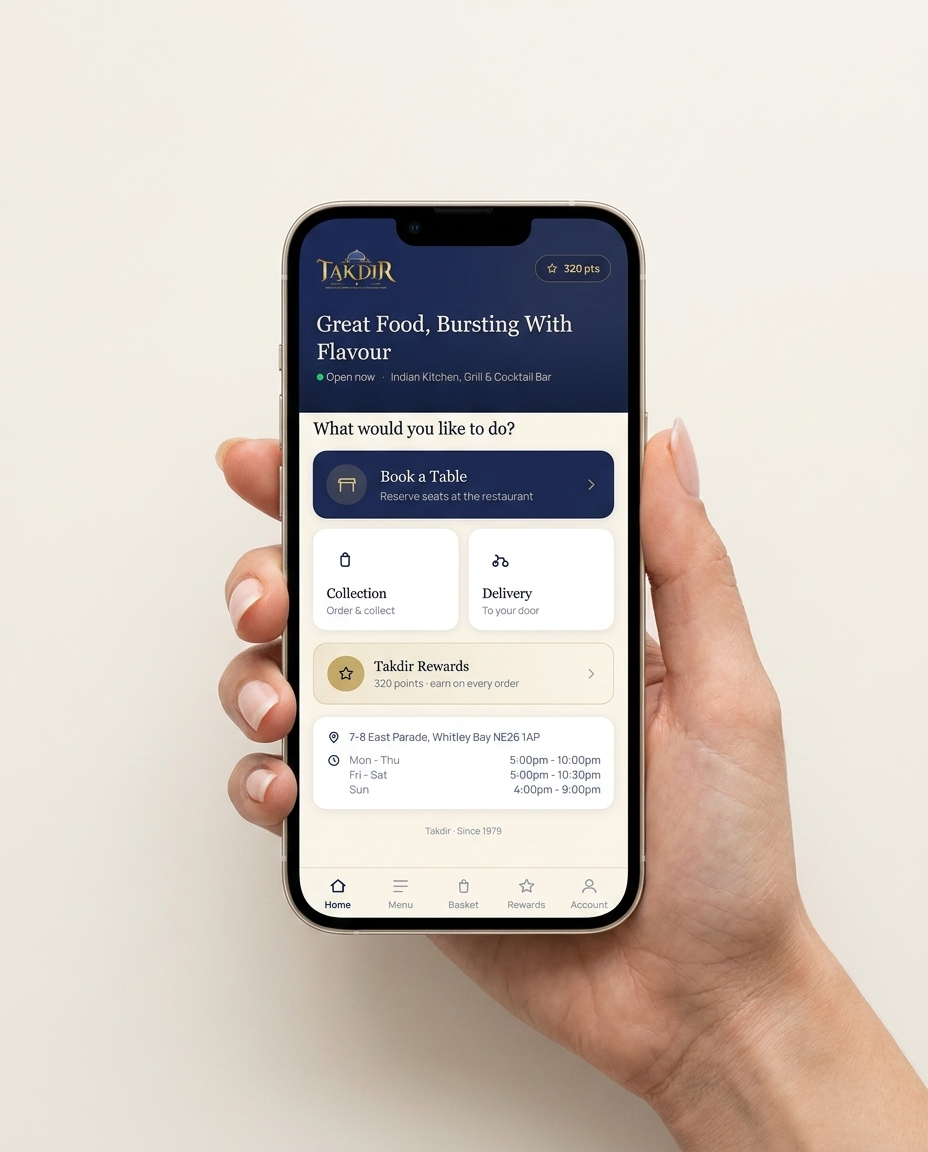
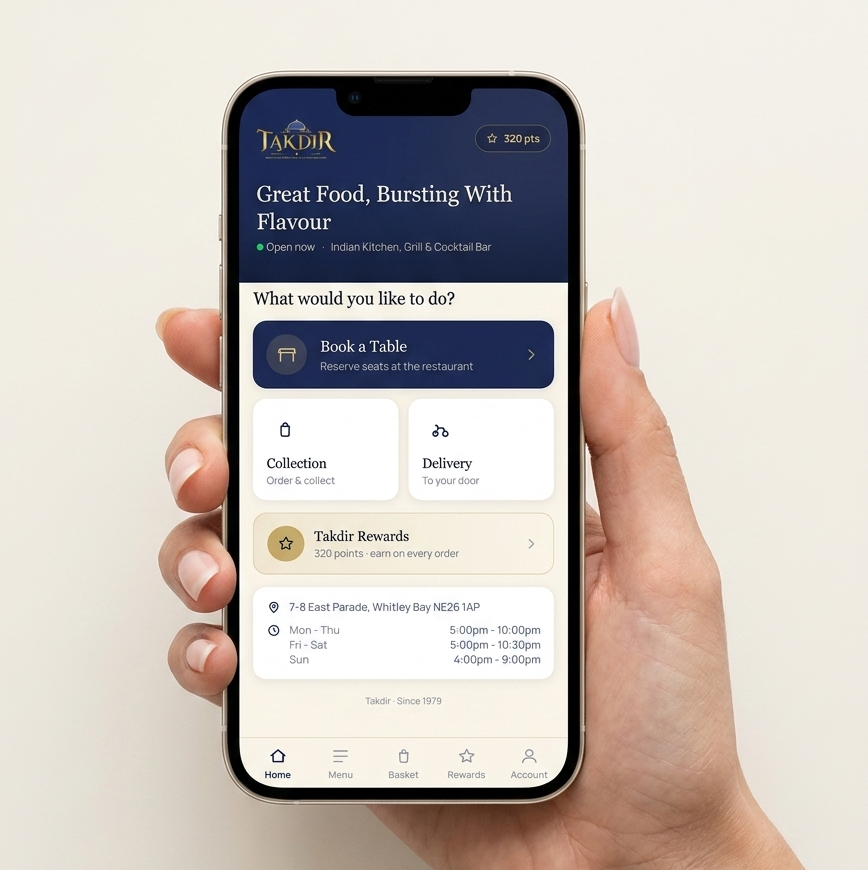
App hero: crop phone render to phone + fingers, bottom fade mask

diff --git a/app/index.html b/app/index.html
@@ -71,10 +71,10 @@
     .app-hero .container { position: relative; }
     /* Phone-in-hand render, feathered so its near-white studio bg melts into the hero */
     .hero-phone {
-      position: absolute; right: -10px; top: 10px;
-      width: min(29vw, 440px); pointer-events: none; z-index: 0;
-      -webkit-mask-image: radial-gradient(ellipse 62% 60% at 52% 50%, #000 62%, transparent 88%);
-      mask-image: radial-gradient(ellipse 62% 60% at 52% 50%, #000 62%, transparent 88%);
+      position: absolute; right: 0; top: 30px;
+      width: min(30vw, 450px); pointer-events: none; z-index: 0;
+      -webkit-mask-image: linear-gradient(to bottom, #000 74%, transparent 98%);
+      mask-image: linear-gradient(to bottom, #000 74%, transparent 98%);
     }
     .app-hero .section-label, .app-hero h1, .app-hero .lede, .app-hero .store-line, .app-hero .app-ctas, .app-hero .statbar { position: relative; z-index: 1; }
     @media (max-width: 1180px) { .hero-phone { display: none; } }
@@ -197,7 +197,7 @@
   <!-- HERO -->
   <section class="app-hero">
     <div class="container">
-      <img class="hero-phone" src="/app/screens/takdir-phone-hand.png?v=1" alt="Takdir's ordering app held in a hand" width="928" height="1152" />
+      <img class="hero-phone" src="/app/screens/takdir-phone-hand.png?v=2" alt="Takdir's ordering app held in a hand" width="868" height="870" />
       <div class="section-label">/ New from Fusion Creative</div>
       <h1>Your own ordering app. <em>Zero commission.</em></h1>
       <p class="lede">Stop handing Deliveroo, Uber Eats and Just Eat 20 to 35 percent of every order. We build you your own branded ordering app so every order comes straight to you, and you keep the lot.</p>